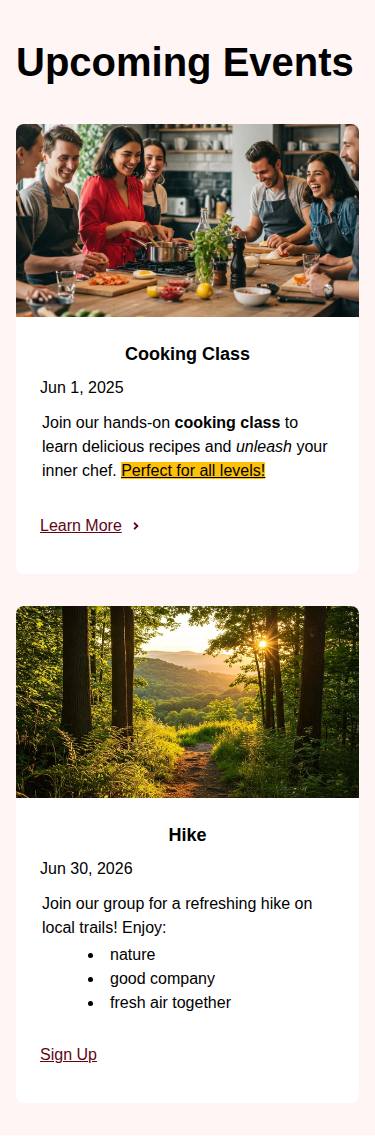
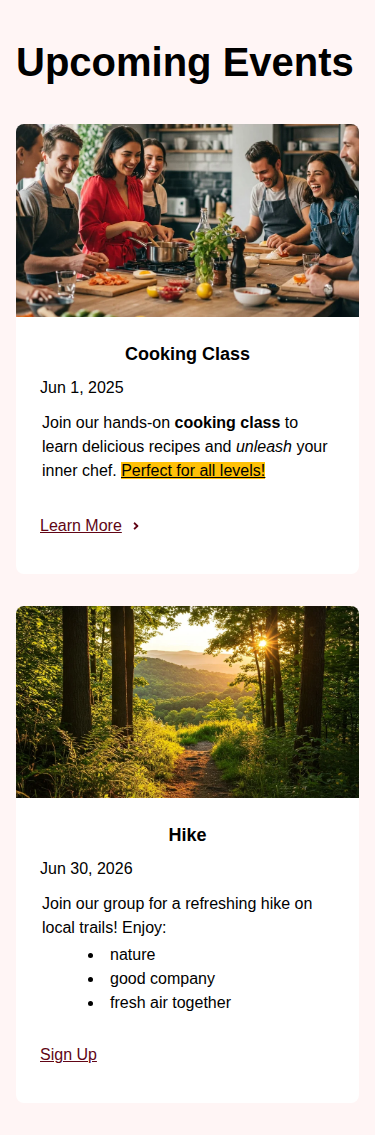
feat: add showIncludeCaretField option to StyledLinkField (#1245)
By default, we will still always show the "Include Caret" field, but
this gives us the option to hide it for links where it is not relevant,
including the navigation links in the shared header.

---------

Pull request: feat: add showIncludeCaretField option to StyledLinkField
By default, we will still always show the "Include Caret" field, but this gives us the option to hide it for links where it is not relevant, including the navigation links in the shared header.

Changed region(s): [[0.0293, 0.5238, 0.8507, 0.7086], [0.8507, 0.5546, 0.9387, 0.647]]

diff --git a/packages/visual-editor/src/fields/styledFields/StyledLinkField.tsx b/packages/visual-editor/src/fields/styledFields/StyledLinkField.tsx
@@ -20,6 +20,7 @@ export type StyledLinkField = BaseField & {
   type: "styledLink";
   label?: string | MsgString;
   visible?: boolean;
+  showIncludeCaretField?: boolean;
 };
 
 type StyledLinkFieldProps = FieldProps<StyledLinkField, StyledLinkValue>;
@@ -53,6 +54,7 @@ export const StyledLinkFieldOverride = ({
     { label: pt("fields.options.yes", "Yes"), value: "block" },
     { label: pt("fields.options.no", "No"), value: "none" },
   ];
+  const showIncludeCaretField = field.showIncludeCaretField ?? true;
 
   return (
     <div>
@@ -81,18 +83,20 @@ export const StyledLinkFieldOverride = ({
               disableSearch
             />
           </FieldLabel>
-          <FieldLabel label={pt("theme.includeCaret", "Include Caret")}>
-            <Combobox
-              selectedOption={
-                includeCaretOptions.find(
-                  (option) => option.value === currentValue.includeCaret
-                ) ?? includeCaretOptions[0]
-              }
-              onChange={(nextValue) => updateValue("includeCaret", nextValue)}
-              optionGroups={[{ options: includeCaretOptions }]}
-              disableSearch
-            />
-          </FieldLabel>
+          {showIncludeCaretField && (
+            <FieldLabel label={pt("theme.includeCaret", "Include Caret")}>
+              <Combobox
+                selectedOption={
+                  includeCaretOptions.find(
+                    (option) => option.value === currentValue.includeCaret
+                  ) ?? includeCaretOptions[0]
+                }
+                onChange={(nextValue) => updateValue("includeCaret", nextValue)}
+                optionGroups={[{ options: includeCaretOptions }]}
+                disableSearch
+              />
+            </FieldLabel>
+          )}
         </div>
       </div>
     </div>